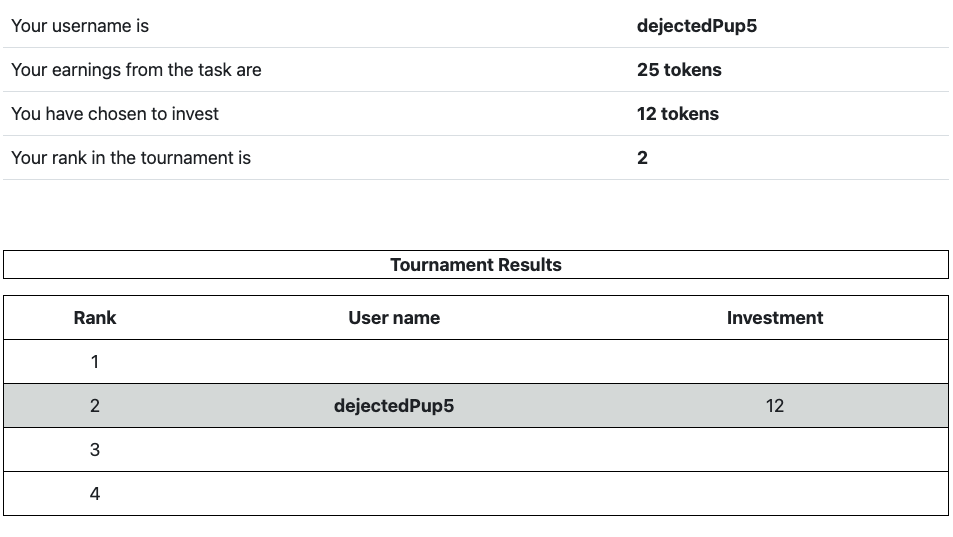
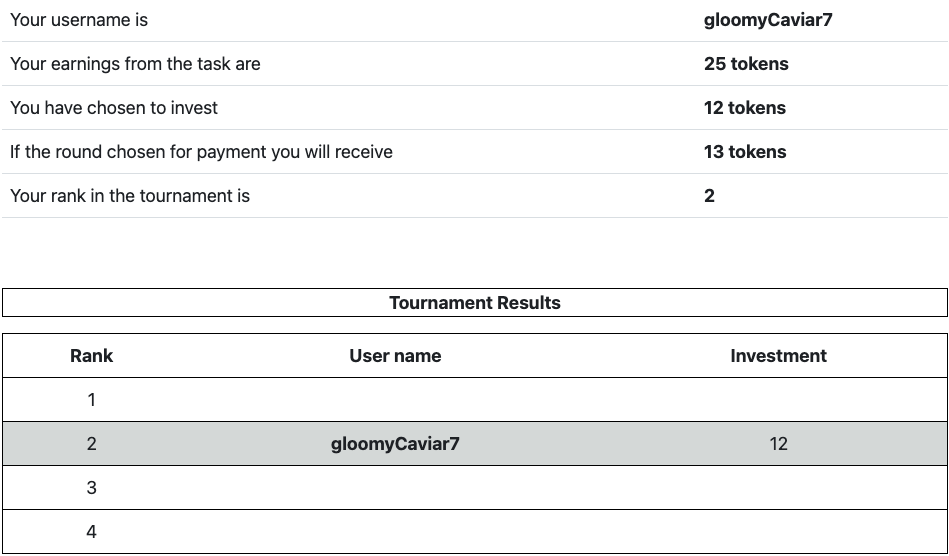
changing no visibility treatment

diff --git a/CC_NoVisibility/TournamentResults.html b/CC_NoVisibility/TournamentResults.html
@@ -25,6 +25,10 @@
         <td> You have chosen to invest</td>
         <td> <b> {{invest}} tokens </b></td>
     </tr>
+    <tr>
+        <td> If the round chosen for payment you will receive </td>
+        <td> <b> {{pay}} tokens </b></td>
+    </tr>
 
     <tr>
         <td> Your rank in the tournament is</td>

diff --git a/CC_NoVisibility/__init__.py b/CC_NoVisibility/__init__.py
@@ -458,11 +458,13 @@ class TournamentResults(Page):
         tournament = [0 for x in range(0,4)]
         for i in range(0,4):
             tournament[i] = [ranks[i], temp[i], user_names[i]]
+        payment = player.num_correct - player.invest
         return dict(
             user_name = player.user_name,
             earnings = player.num_correct,
             invest = player.invest,
             rank = player.rank,
+            pay = payment,
             tournament = tournament,
             round_number = player.round_number,
             num_rounds = Constants.num_rounds
